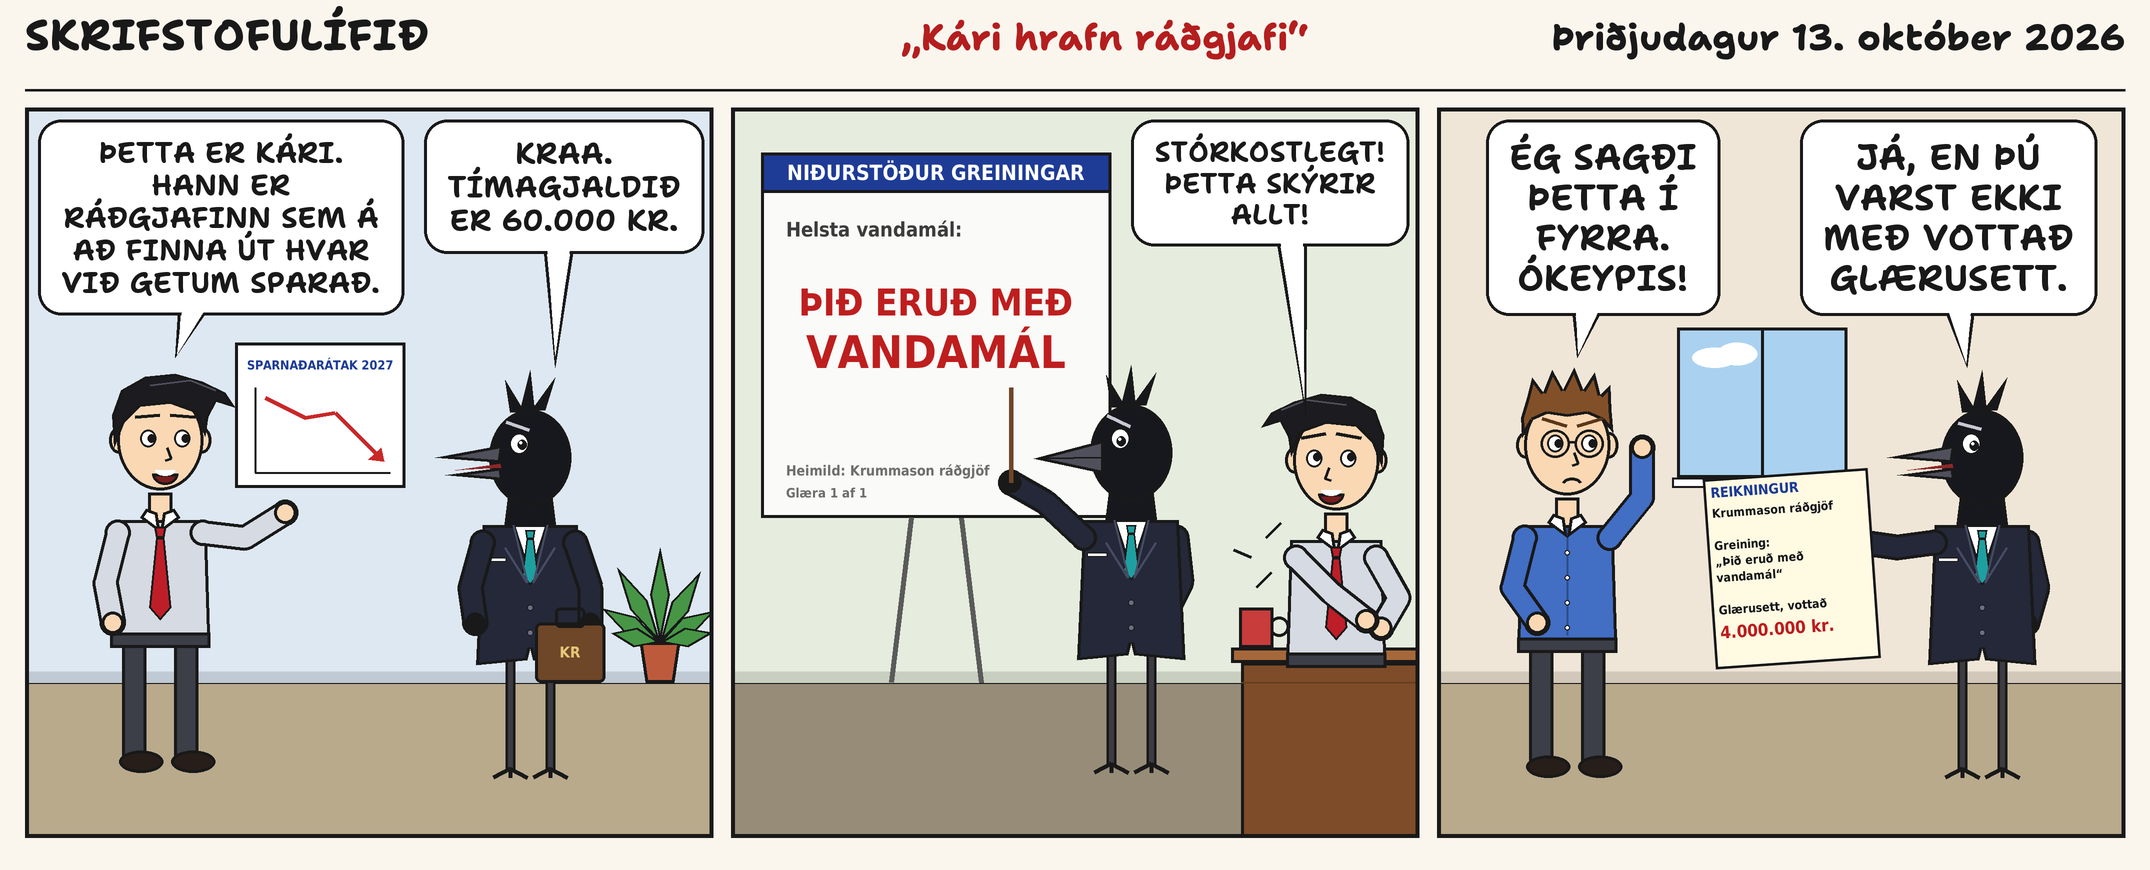
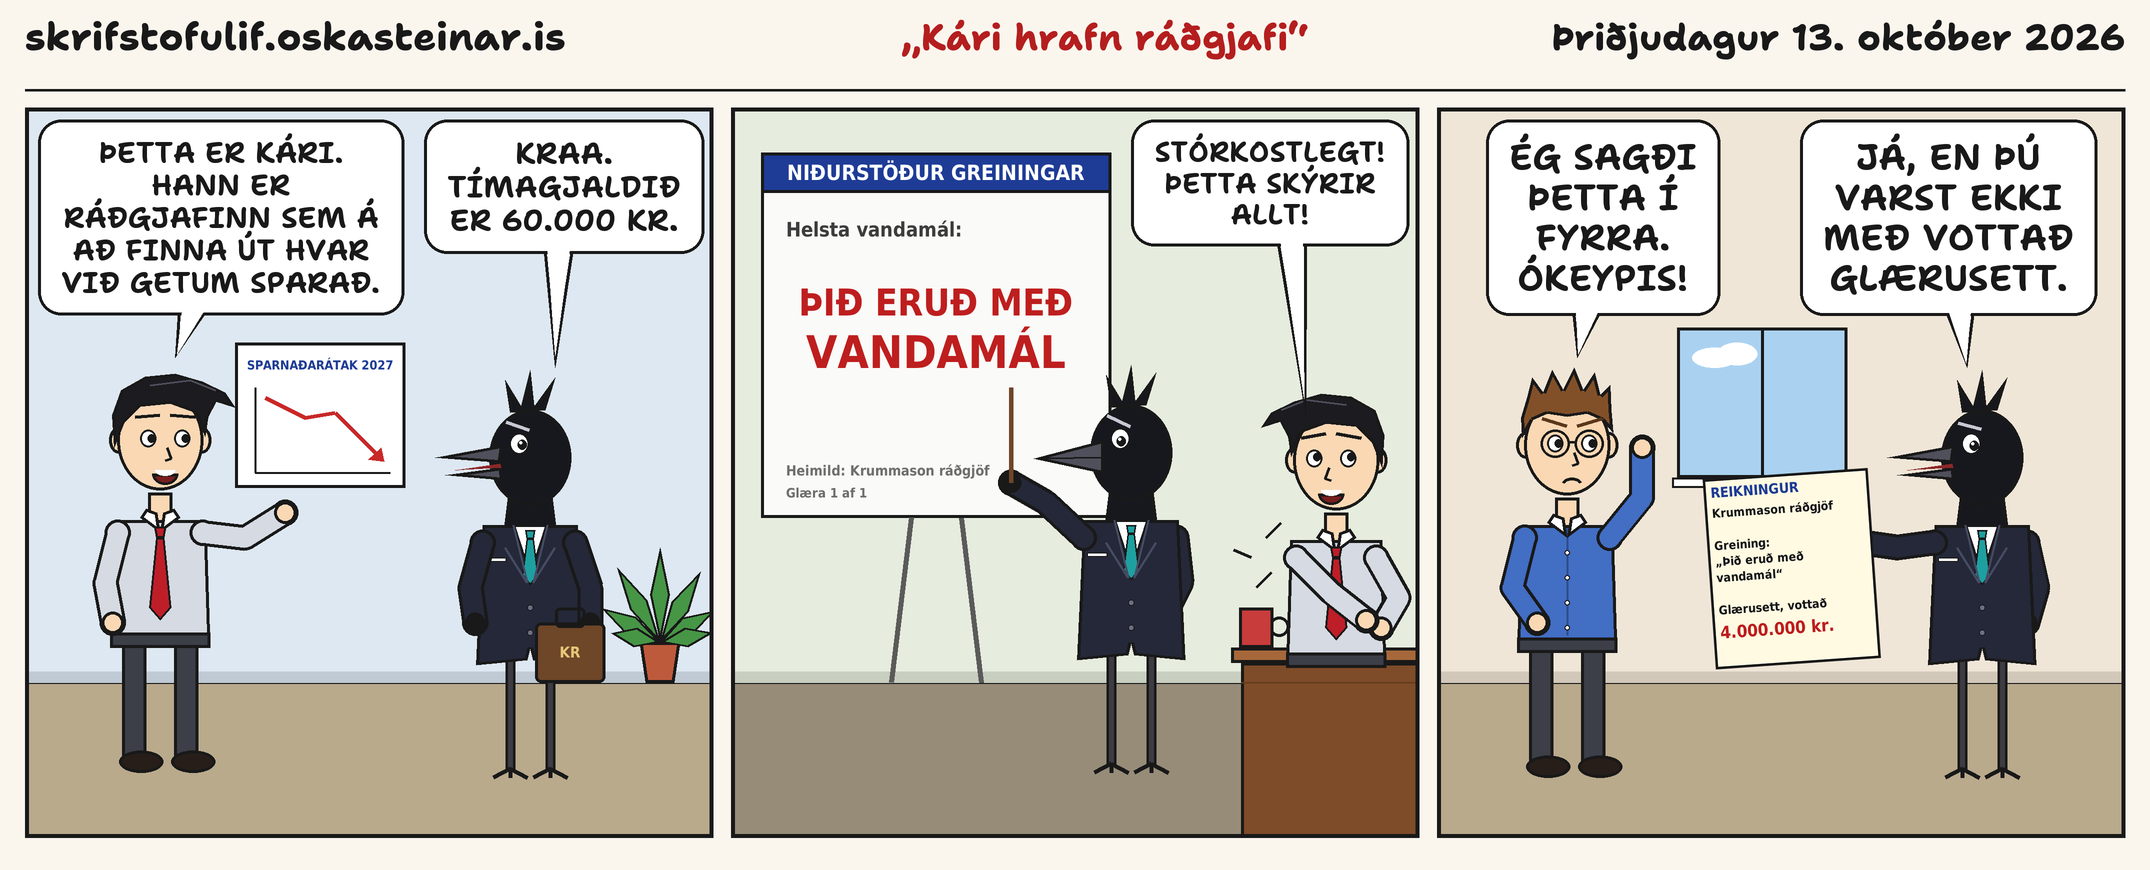
Skipta SKRIFSTOFULÍFIÐ út fyrir skrifstofulif.oskasteinar.is í haus allra skrýtlna

Changed region(s): [[0.0, 0.0, 0.2805, 0.0621]]

diff --git a/LEIDBEININGAR.md b/LEIDBEININGAR.md
@@ -42,7 +42,7 @@ Breyttu uppsetningu milli brandara og milli ramma. Bakgrunnur: veggur, gluggi, t
 ## Tækni
 
 - Teiknaðu í Python með PIL. Teiknaðu á 2x skala og minnkaðu með LANCZOS.
-- Um 2150×870 px; haus „SKRIFSTOFULÍFIÐ“ + dagsetning á íslensku (vikudagur, dagur, mánuður, ár); 3 rammar.
+- Um 2150×870 px; haus með „skrifstofulif.oskasteinar.is“ efst til vinstri, titli dagsins í miðju og dagsetningu á íslensku (vikudagur, dagur, mánuður, ár); 3 rammar.
 - Persónur: andlit (augu, augabrúnir, nef, munnur með ólíkum svipbrigðum, eyru, hár, gleraugu), háls, kragi, bindi, handleggir/hendur í mismunandi stellingum.
 - Dýr með einkennandi form: hrafn (goggur, fjaðrir á kolli), kisa (eyru, hárbroddar, skegg), sauður (ullarský), lundi (litríkur goggur).
 - Dýpt: láttu hjálparföll nota umbreytingu (scale um akkerispunkt) svo hægt sé að teikna persónur minni/fjær. Teiknaðu fjærri persónur fyrst, svo borð (með gólflit-maska fyrir neðan borðið svo búkar sjáist ekki), svo nær persónur.
@@ -61,7 +61,7 @@ Breyttu uppsetningu milli brandara og milli ramma. Bakgrunnur: veggur, gluggi, t
 
   Búðu til nýjan font-hlut fyrir hverja stærð og stilltu ásana á hvern og einn. Staðfestu röð ásanna með `f.get_variation_axes()` og raðaðu gildunum eftir nöfnunum ef röðin er önnur. Ef leturskráin er ekki til, notaðu `/usr/share/fonts/truetype/dejavu/DejaVuSansCondensed-Bold.ttf` í staðinn og nefndu það í myndatextanum.
 - Allur texti í talblöðrum er í HÁSTÖFUM. Breyttu textanum í hástafi (`.upper()`) ÁÐUR en þú reiknar línuskiptingu og breidd, því hástafir eru breiðari.
-- Haus: nafn ræmunnar „SKRIFSTOFULÍFIÐ“ í hástöfum, þyngd 760. Titill dagsins og dagsetning í sama letri og þyngd, með venjulegum hástöfum og lágstöfum.
+- Haus: efst til vinstri stendur slóðin „skrifstofulif.oskasteinar.is“ í lágstöfum, þyngd 760 (ekki „SKRIFSTOFULÍFIÐ“). Titill dagsins og dagsetning í sama letri og þyngd, með venjulegum hástöfum og lágstöfum.
 - Línubil í blöðrum er 1,12 × leturstærð. Byrjaðu í stærð 40 og minnkaðu letrið þar til textinn passar inn í blöðruna, með a.m.k. 16 px spássíu til hliðanna og 9 px að ofan og neðan. Textinn má aldrei snerta útlínu blöðrunnar.
 - Ekki brjóta línu inni í tölum og einingum („60.000 kr.“, „Gunnar 2.0“). Notaðu óbrjótanlegt bil (U+00A0, í Python `" "`) og skiptu línum aðeins á venjulegum bilum.
 - Texti sem er hluti af myndinni sjálfri (tölvuskjáir, töflur, skilti, reikningar) er í `/usr/share/fonts/truetype/dejavu/DejaVuSansCondensed-Bold.ttf`, í venjulegum hástöfum og lágstöfum. Hann á að líta út eins og prentaður tölvutexti, ólíkt handletruðu talblöðrunum.
